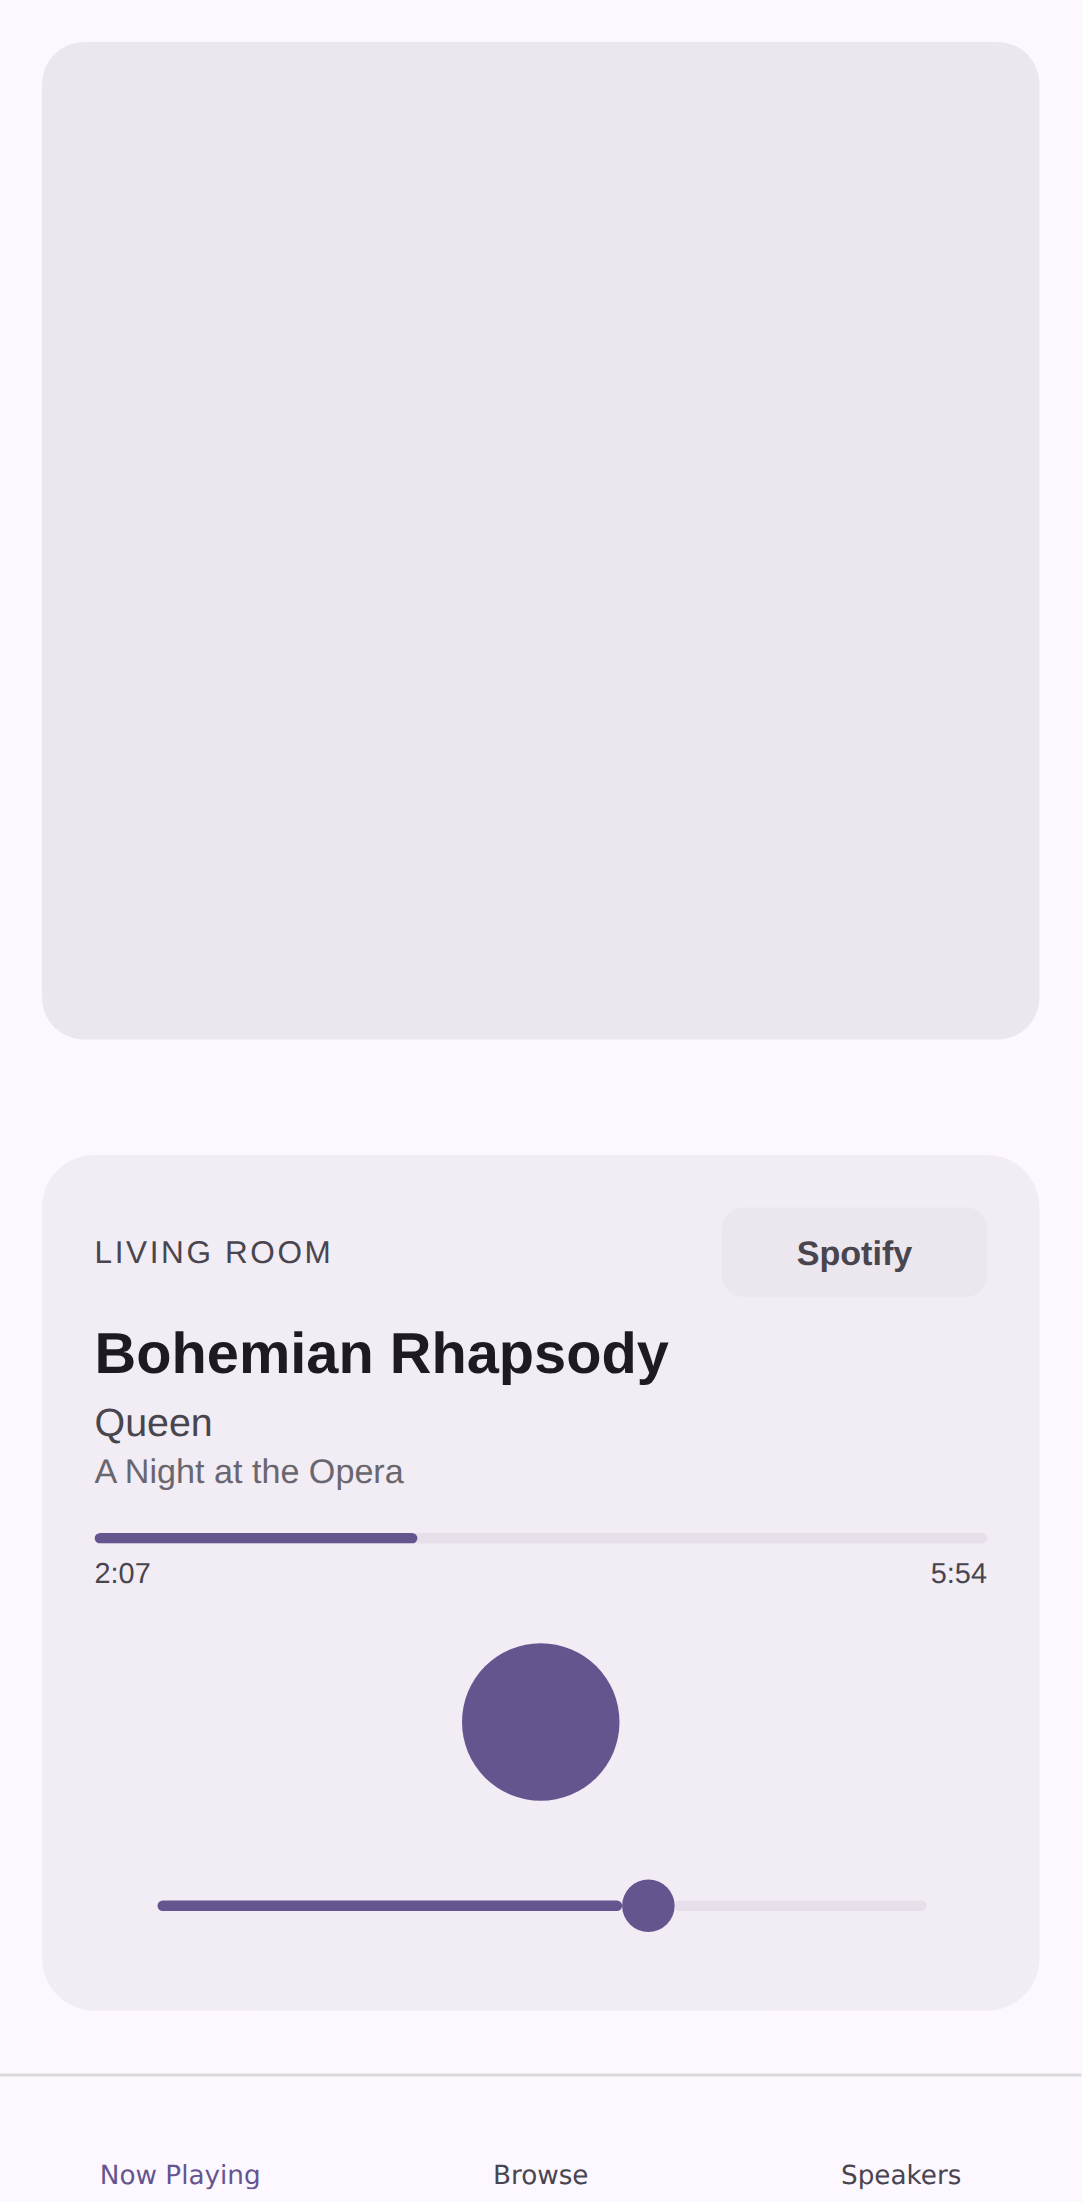
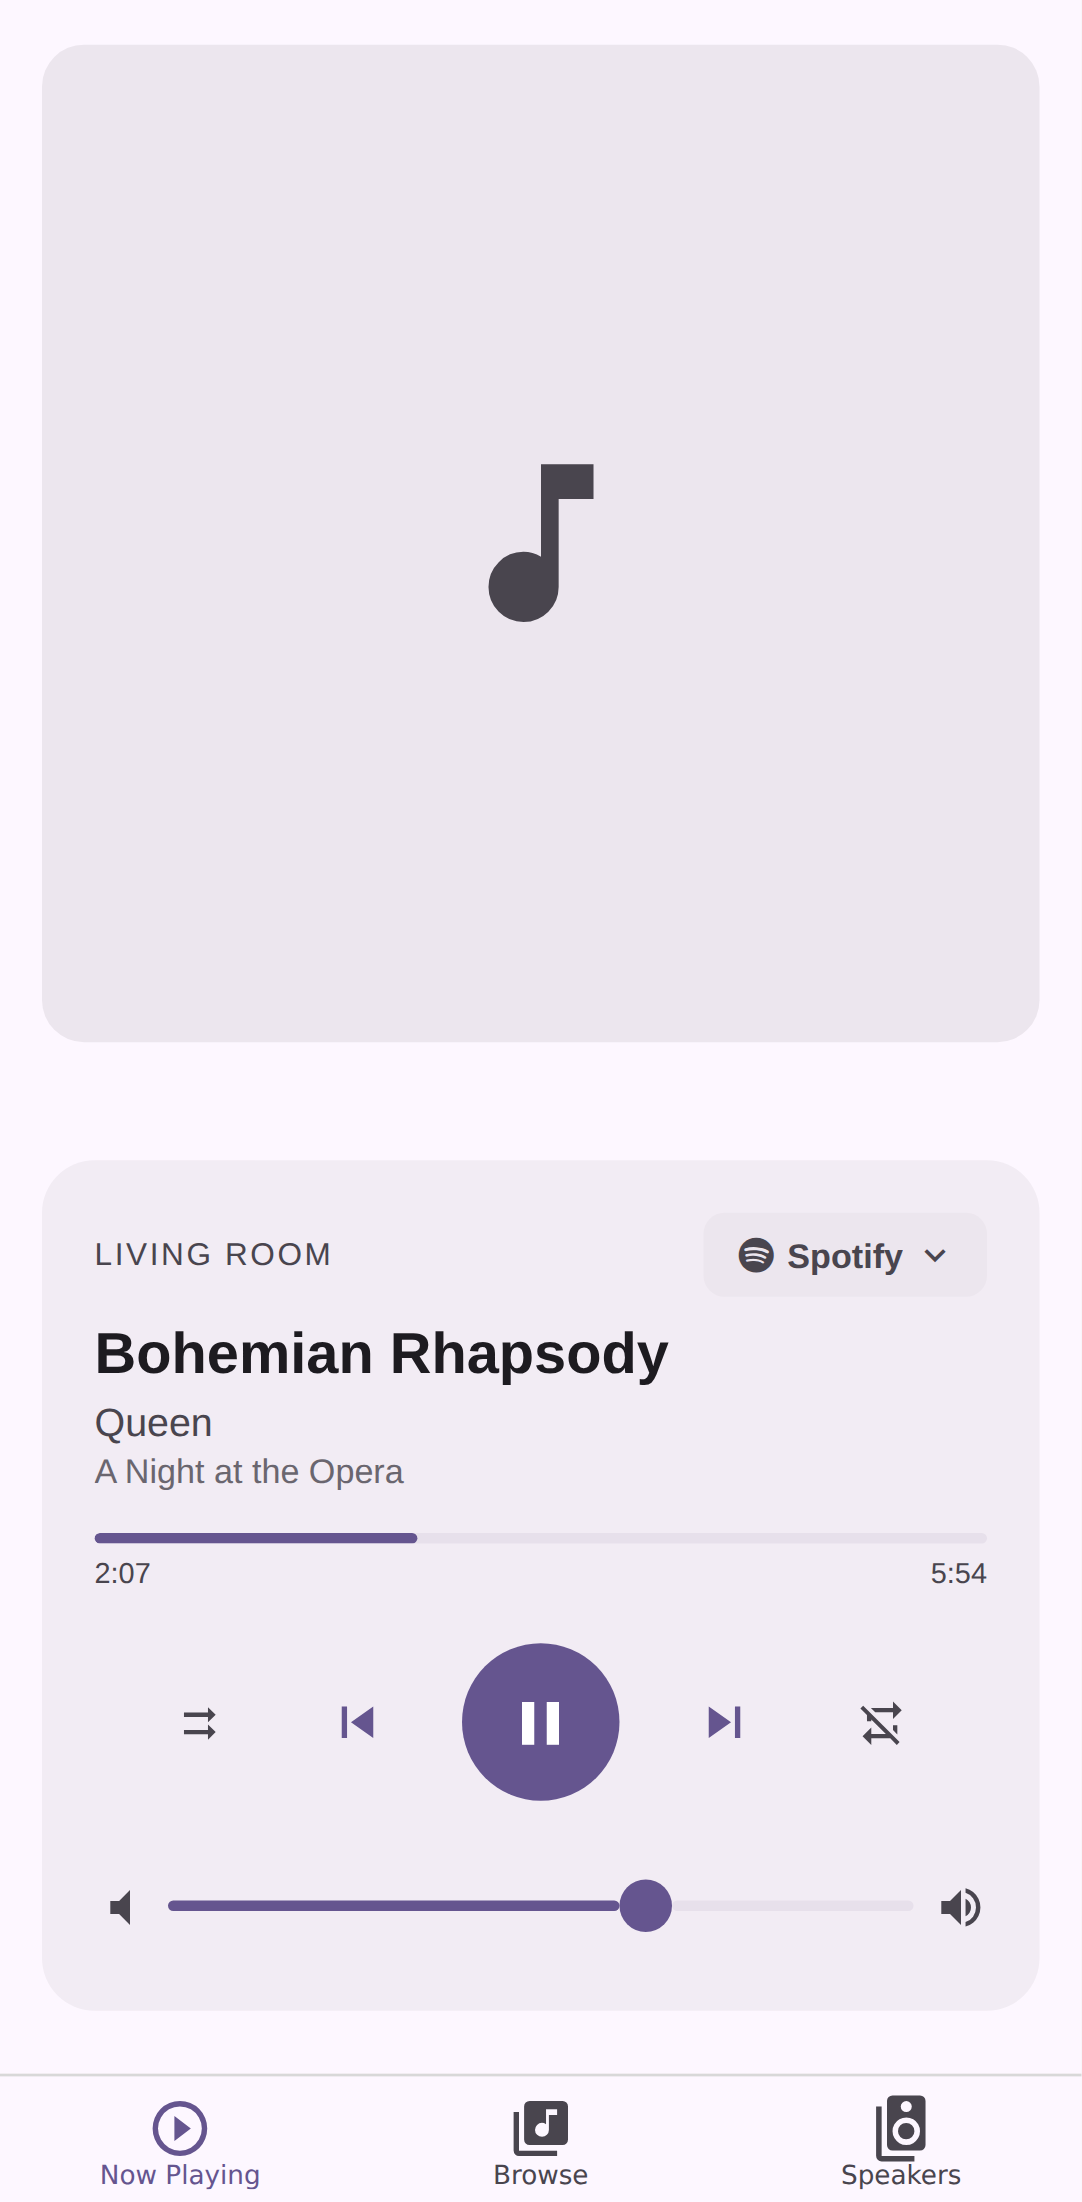
Load MaterialDesignIcons font explicitly for web
useFonts() in the root layout injects the @font-face CSS so vector icons
render correctly in the Expo web build and Playwright screenshots.

https://claude.ai/code/session_016TZigo2N76jrDcSH937uuR

diff --git a/app/_layout.tsx b/app/_layout.tsx
@@ -1,7 +1,8 @@
+import { useFonts } from 'expo-font';
 import { Stack } from 'expo-router';
 import { StatusBar } from 'expo-status-bar';
 import React, { useEffect } from 'react';
-import { StyleSheet } from 'react-native';
+import { StyleSheet, View } from 'react-native';
 import { GestureHandlerRootView } from 'react-native-gesture-handler';
 import { HassProvider, SelectedPlayerProvider, ThemeProvider, useHassContext, useThemeContext } from '@/context';
 import { useArtworkColor, useSelectedPlayer } from '@/hooks';
@@ -46,6 +47,15 @@ function ThemedStack(): React.JSX.Element {
 }
 
 export default function RootLayout() {
+  const [fontsLoaded] = useFonts({
+    // eslint-disable-next-line @typescript-eslint/no-require-imports
+    MaterialDesignIcons: require('@react-native-vector-icons/material-design-icons/fonts/MaterialDesignIcons.ttf'),
+  });
+
+  if (!fontsLoaded) {
+    return <View style={styles.root} />;
+  }
+
   return (
     <GestureHandlerRootView style={styles.root}>
       <ThemeProvider>
